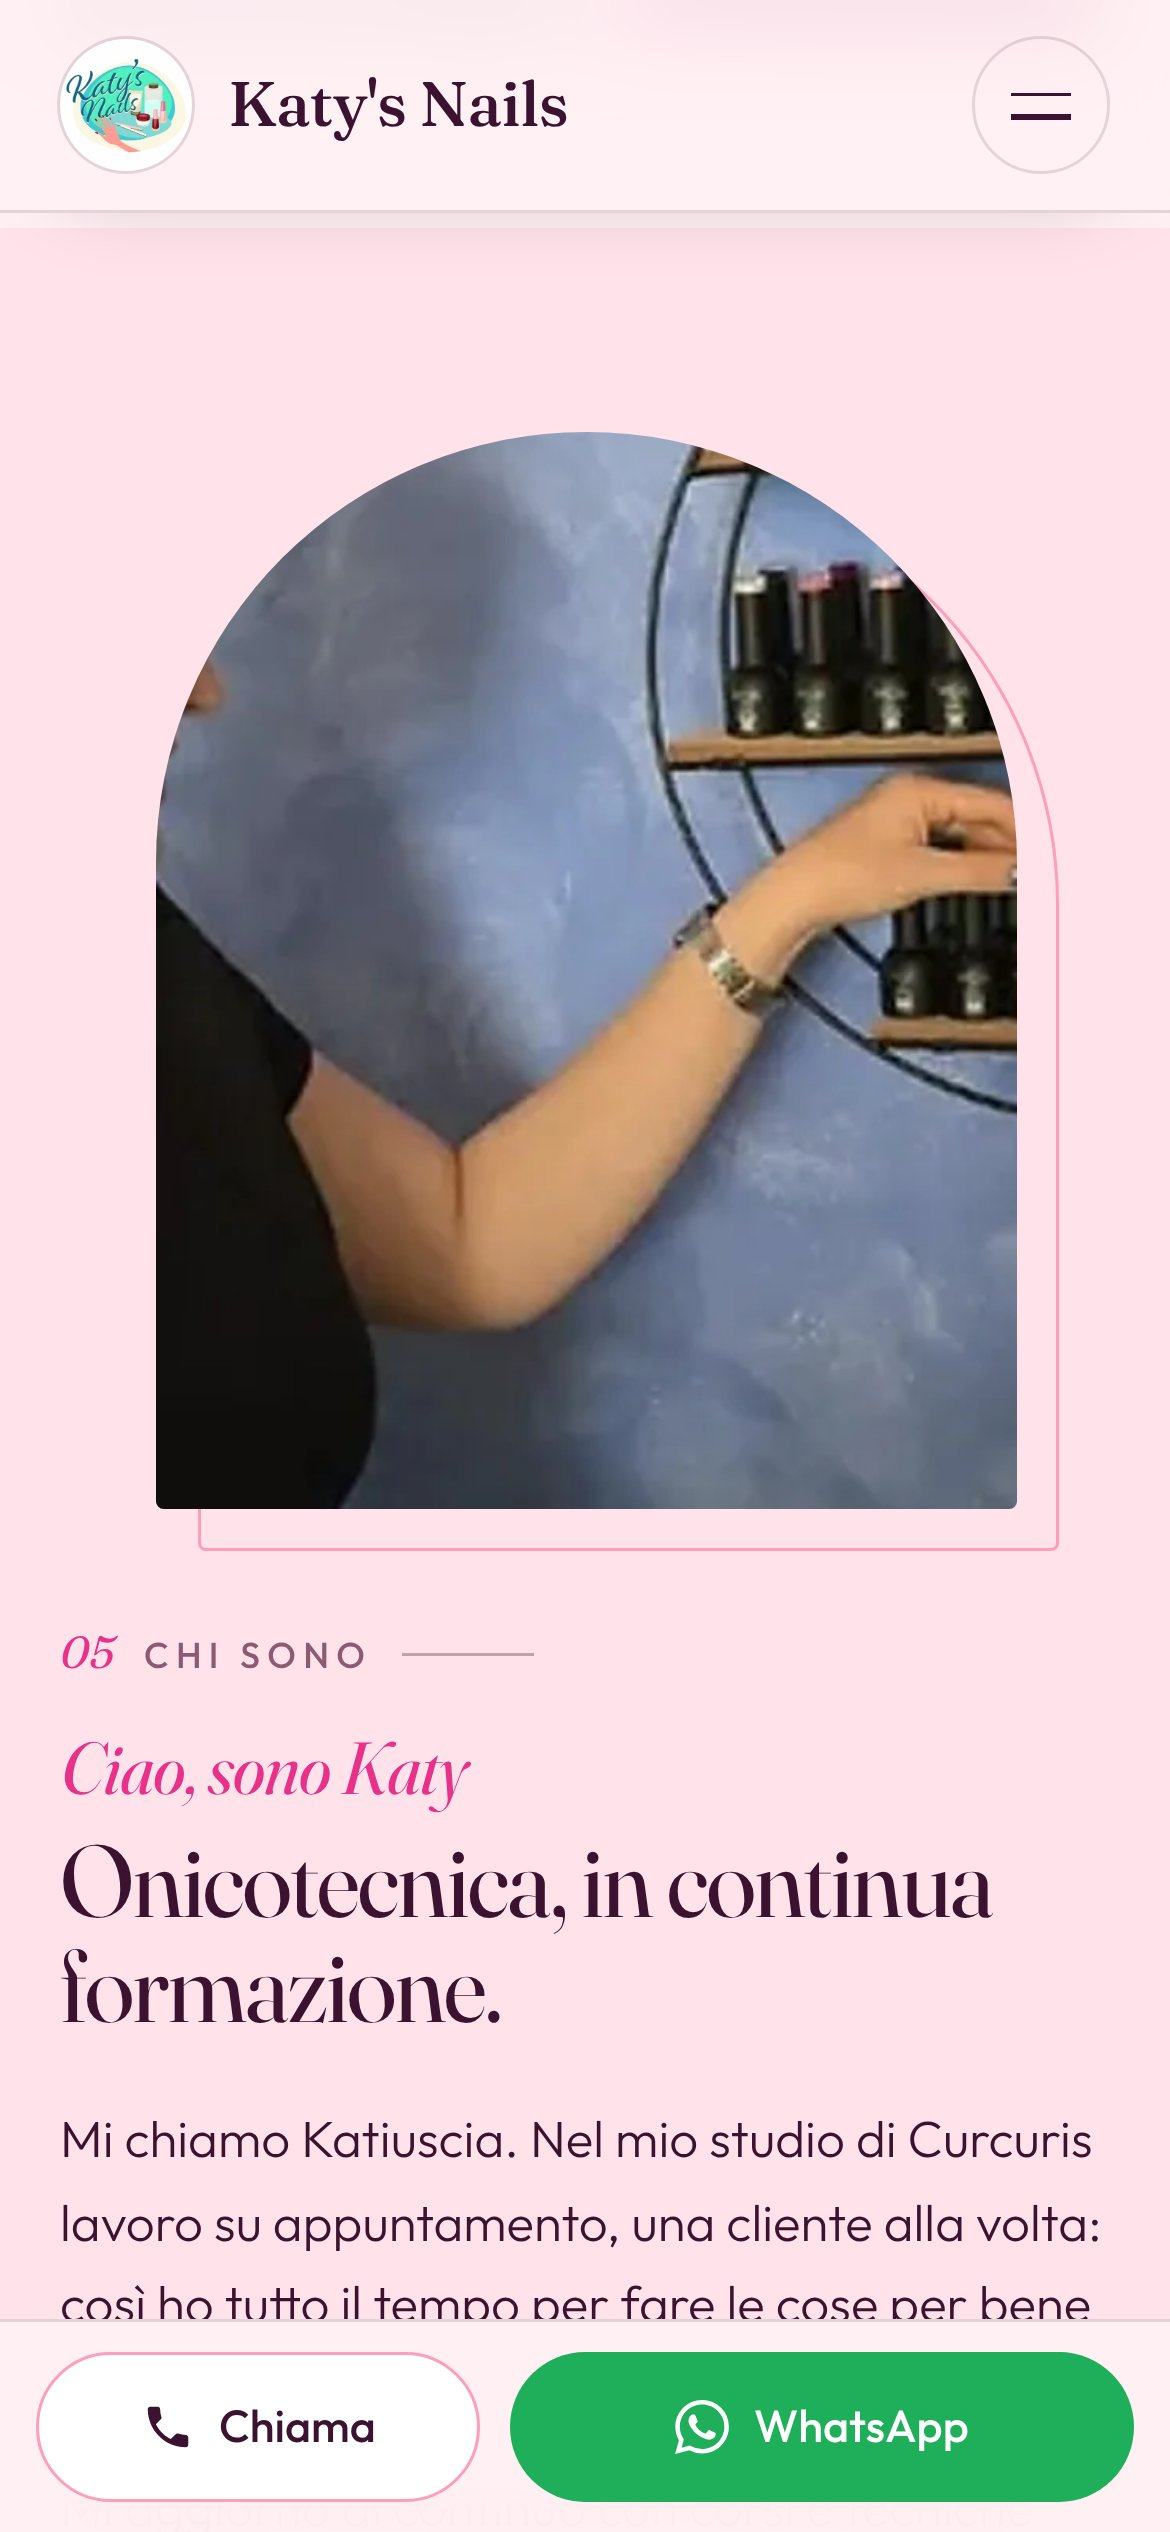
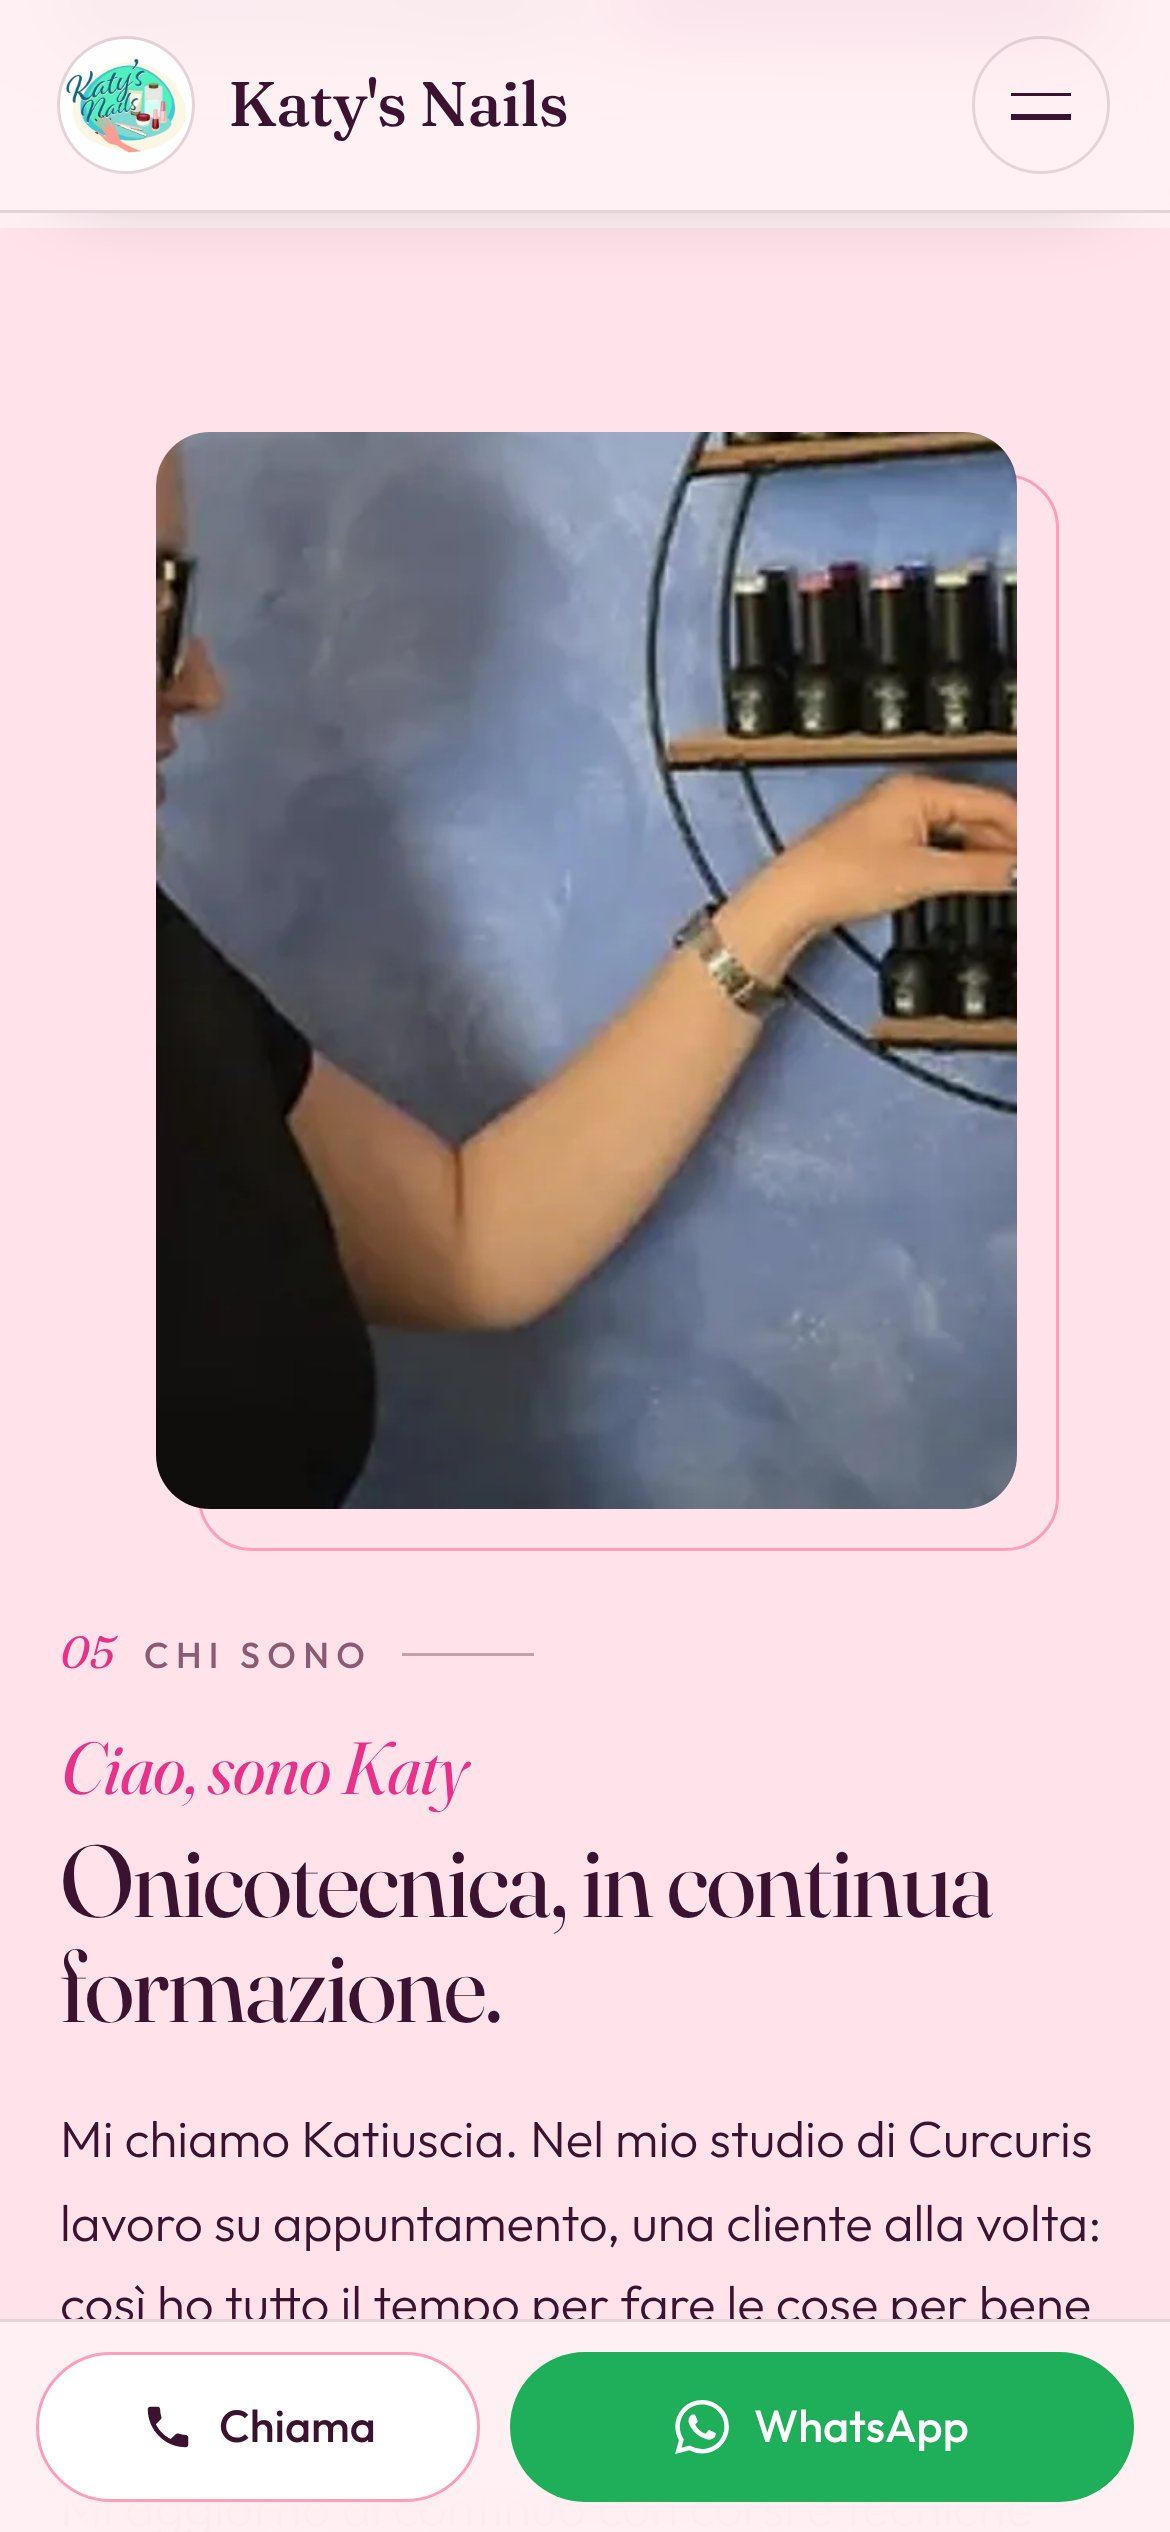
Apertura: foto non zoomate e cornice semplice
- in apertura entrano solo foto verticali o quadrate: le orizzontali
  venivano ingrandite del doppio per riempire il riquadro
- il pannello avvisa se si mette la stellina a una foto orizzontale
- cornici: rettangoli con angoli arrotondati al posto di archi e gocce,
  anche per la foto di Chi sono
- test pannello aggiornato con una foto verticale (29/29)

Claude-Session: https://claude.ai/code/session_01W7HbZyGkFPDAda3KWqu4ya

diff --git a/da-caricare/assets/css/site.css b/da-caricare/assets/css/site.css
@@ -120,15 +120,15 @@ em.script,.script{font-family:var(--serif);font-style:italic;font-weight:400;let
 .facts dt{font-family:var(--serif);font-size:clamp(20px,5.4vw,32px);font-weight:400;line-height:1;color:var(--ink);letter-spacing:-.02em}
 .facts dd{margin:6px 0 0;font-size:12.5px;letter-spacing:.06em;text-transform:uppercase;color:var(--muted);line-height:1.3}
 .hero-media{position:relative;padding:0 0 30px 0}
-.visual{position:relative;margin:0;border-radius:var(--r) var(--r) 120px 120px;overflow:hidden;aspect-ratio:4/5;background:var(--rosa);border:6px solid #fff;box-shadow:0 40px 70px -36px rgba(196,30,115,.55);isolation:isolate}
+.visual{position:relative;margin:0;border-radius:28px;overflow:hidden;aspect-ratio:4/5;background:var(--rosa);border:6px solid #fff;box-shadow:0 40px 70px -36px rgba(196,30,115,.55);isolation:isolate}
 .visual .slides{position:absolute;top:0;right:0;bottom:0;left:0}
 .visual .slides img{position:absolute;inset:0;width:100%;height:100%;object-fit:cover;opacity:0;transform:scale(1.06);transition:opacity 1.2s ease,transform 6s ease-out}
 .visual .slides img.on{opacity:1;transform:scale(1)}
 .visual .shine{position:absolute;top:0;right:0;bottom:0;left:0;pointer-events:none;background:linear-gradient(105deg,transparent 40%,rgba(255,255,255,.28) 50%,transparent 60%) no-repeat;background-size:250% 100%;background-position:150% 0;animation:lucido 8s ease-in-out 2s infinite}
 @keyframes lucido{0%{background-position:150% 0}20%,100%{background-position:-60% 0}}
-.visual figcaption{position:absolute;right:34px;bottom:26px;max-width:60%;padding:8px 14px;border-radius:999px;background:rgba(255,255,255,.92);color:var(--ink);font-size:11px;font-weight:500;letter-spacing:.14em;text-transform:uppercase;white-space:nowrap;overflow:hidden;text-overflow:ellipsis;z-index:2;transition:opacity .4s}
+.visual figcaption{position:absolute;right:20px;bottom:20px;max-width:60%;padding:8px 14px;border-radius:999px;background:rgba(255,255,255,.92);color:var(--ink);font-size:11px;font-weight:500;letter-spacing:.14em;text-transform:uppercase;white-space:nowrap;overflow:hidden;text-overflow:ellipsis;z-index:2;transition:opacity .4s}
 .visual figcaption.fade{opacity:0}
-.visual-2{position:absolute;margin:0;width:34%;left:-6px;bottom:0;border-radius:14px;overflow:hidden;border:6px solid #fff;box-shadow:0 24px 40px -22px rgba(196,30,115,.55);aspect-ratio:1/1;background:var(--rosa)}
+.visual-2{position:absolute;margin:0;width:34%;left:-6px;bottom:0;border-radius:18px;overflow:hidden;border:6px solid #fff;box-shadow:0 24px 40px -22px rgba(196,30,115,.55);aspect-ratio:1/1;background:var(--rosa)}
 .visual-2 img{width:100%;height:100%;object-fit:cover}
 .hero-mark{position:absolute;left:0;right:0;bottom:-.12em;font-family:var(--serif);font-style:italic;font-weight:300;font-size:clamp(80px,18vw,230px);line-height:1;white-space:nowrap;text-align:center;color:transparent;-webkit-text-stroke:1px rgba(232,49,138,.28);pointer-events:none;user-select:none;letter-spacing:-.02em}
 @media (min-width:980px){
@@ -138,8 +138,8 @@ em.script,.script{font-family:var(--serif);font-style:italic;font-weight:400;let
   .cta{grid-auto-flow:column;gap:28px}
   .facts{max-width:520px}
   .hero-media{padding:0 0 40px 40px;display:flex;justify-content:flex-end}
-  .visual{max-width:520px;width:100%;transform:rotate(1.5deg)}
-  .visual-2{width:40%;left:0;bottom:0}
+  .visual{max-width:500px;width:100%;transform:none}
+  .visual-2{width:38%;left:0;bottom:10px}
 }
 
 /* nastro dei servizi */
@@ -311,8 +311,8 @@ em.script,.script{font-family:var(--serif);font-style:italic;font-weight:400;let
 .about{background:var(--crema-2)}
 .about-grid{display:grid;gap:36px;align-items:center}
 .portrait{position:relative;width:min(82%,380px);justify-self:center}
-.portrait::before{content:"";position:absolute;top:14px;right:-14px;bottom:-14px;left:14px;border-radius:999px 999px var(--r) var(--r);border:1px solid var(--rosa-2)}
-.portrait img{position:relative;width:100%;aspect-ratio:4/5;object-fit:cover;border-radius:999px 999px var(--r) var(--r)}
+.portrait::before{content:"";position:absolute;top:14px;right:-14px;bottom:-14px;left:14px;border-radius:var(--r);border:1px solid var(--rosa-2)}
+.portrait img{position:relative;width:100%;aspect-ratio:4/5;object-fit:cover;border-radius:var(--r)}
 .about h2{font-size:clamp(34px,8.6vw,58px);font-weight:400;margin-bottom:20px}
 .about h2 em{display:block;font-size:.72em;margin-bottom:8px}
 .about p{margin-bottom:14px;max-width:34em}

diff --git a/anteprima/index.html b/anteprima/index.html
@@ -24,7 +24,7 @@
 <link rel="preload" href="../da-caricare/assets/fonts/fraunces-latin-normal-300-700.woff2" as="font" type="font/woff2" crossorigin>
 <link rel="preload" href="../da-caricare/assets/fonts/fraunces-latin-italic-300-700.woff2" as="font" type="font/woff2" crossorigin>
 <link rel="preload" href="../da-caricare/assets/fonts/outfit-latin-normal-300-800.woff2" as="font" type="font/woff2" crossorigin>
-<link rel="stylesheet" href="../da-caricare/assets/css/site.css?v=1795296107">
+<link rel="stylesheet" href="../da-caricare/assets/css/site.css?v=1795297049">
 <script>document.documentElement.classList.add('js')</script>
 <script type="application/ld+json">{"@context":"https://schema.org","@type":"NailSalon","name":"Katy's Nails","url":"http://anteprima.local/","image":"http://anteprima.local/assets/img/og.jpg","logo":"http://anteprima.local/assets/img/logo.jpg","telephone":"+39 349 413 6132","address":{"@type":"PostalAddress","streetAddress":"Via Grazia Deledda 2a","addressLocality":"Curcuris","addressRegion":"OR","addressCountry":"IT"},"openingHoursSpecification":[{"@type":"OpeningHoursSpecification","dayOfWeek":"Tuesday","opens":"09:00","closes":"13:00"},{"@type":"OpeningHoursSpecification","dayOfWeek":"Tuesday","opens":"15:00","closes":"19:00"},{"@type":"OpeningHoursSpecification","dayOfWeek":"Wednesday","opens":"09:00","closes":"13:00"},{"@type":"OpeningHoursSpecification","dayOfWeek":"Wednesday","opens":"15:00","closes":"19:00"},{"@type":"OpeningHoursSpecification","dayOfWeek":"Thursday","opens":"09:00","closes":"13:00"},{"@type":"OpeningHoursSpecification","dayOfWeek":"Thursday","opens":"15:00","closes":"19:00"},{"@type":"OpeningHoursSpecification","dayOfWeek":"Friday","opens":"09:00","closes":"13:00"},{"@type":"OpeningHoursSpecification","dayOfWeek":"Friday","opens":"15:00","closes":"19:00"},{"@type":"OpeningHoursSpecification","dayOfWeek":"Saturday","opens":"09:00","closes":"14:00"}],"sameAs":["https://www.instagram.com/katys.nails.studio90/"]}</script>
 </head>
@@ -59,12 +59,11 @@
         <div><dt data-count="1018">1.018</dt><dd>lavori su Instagram</dd></div><div><dt>1 alla volta</dt><dd>niente attese</dd></div><div><dt>Sempre</dt><dd>in formazione</dd></div>      </dl>
           </div>
         <div class="hero-media pop">
-      <figure class="visual" data-slides="[{&quot;src&quot;:&quot;../da-caricare/uploads/20261121-e12d07703976.webp&quot;,&quot;cap&quot;:&quot;Rosa fragola lucido&quot;},{&quot;src&quot;:&quot;../da-caricare/uploads/20261121-0f730c578a9b.webp&quot;,&quot;cap&quot;:&quot;French sottile&quot;},{&quot;src&quot;:&quot;../da-caricare/uploads/20261121-e0dcf2bb16c1.webp&quot;,&quot;cap&quot;:&quot;Rosa latte&quot;}]">
+      <figure class="visual" data-slides="[]">
         <div class="slides"><img src="../da-caricare/uploads/20261121-7a33137fe847.webp" alt="Salvia + glitter" class="on" width="800" height="1000" fetchpriority="high"></div>
         <span class="shine" aria-hidden="true"></span>
         <figcaption><span id="hero-cap">Salvia + glitter</span></figcaption>
       </figure>
-            <figure class="visual-2"><img src="../da-caricare/uploads/20261121-e12d07703976-t.webp" alt="Rosa fragola lucido" width="400" height="400" loading="lazy"></figure>
           </div>
       </div>
   <div class="hero-mark" aria-hidden="true">Katy&#039;s Nails</div>

diff --git a/da-caricare/assets/js/admin.js b/da-caricare/assets/js/admin.js
@@ -717,7 +717,11 @@
       put(grid, arr.map(function (g, i) {
         var cap = h('input', { type: 'text', value: g.didascalia || '', maxlength: 80, placeholder: 'Descrizione (facoltativa)', 'aria-label': 'Descrizione foto ' + (i + 1) });
         cap.addEventListener('input', function () { g.didascalia = cap.value; changed(); });
-        var star = h('button', { type: 'button', class: 'star' + (g.apertura ? ' on' : ''), 'aria-pressed': String(!!g.apertura), title: 'Mostra questa foto nella foto grande in apertura', onclick: function () { g.apertura = !g.apertura; changed(); paint(); } }, ico('star', 13), g.apertura ? 'In apertura' : 'In apertura');
+        var orizzontale = g.w && g.h && g.h < g.w * 0.9;
+        var star = h('button', { type: 'button', class: 'star' + (g.apertura ? ' on' : ''), 'aria-pressed': String(!!g.apertura), title: orizzontale ? 'Foto orizzontale: in apertura verrebbe ingrandita troppo, quindi non viene usata' : 'Mostra questa foto nella foto grande in apertura', onclick: function () {
+          if (orizzontale && !g.apertura) { toast('Questa foto è orizzontale: in apertura verrebbe ingrandita troppo. Per l\'apertura servono foto verticali.', true); return; }
+          g.apertura = !g.apertura; changed(); paint();
+        } }, ico('star', 13), g.apertura ? 'In apertura' : 'In apertura');
         return h('div', { class: 'gi', 'data-i': i },
           h('div', { class: 'gi-img', draggable: 'true' }, h('img', { src: url(g.thumb), alt: g.didascalia || '', loading: 'lazy' }), star, h('span', { class: 'n', text: String(i + 1) })),
           h('div', { class: 'gi-b' }, cap, h('div', { class: 'gi-a' },

diff --git a/anteprima/privacy.html b/anteprima/privacy.html
@@ -24,7 +24,7 @@
 <link rel="preload" href="../da-caricare/assets/fonts/fraunces-latin-normal-300-700.woff2" as="font" type="font/woff2" crossorigin>
 <link rel="preload" href="../da-caricare/assets/fonts/fraunces-latin-italic-300-700.woff2" as="font" type="font/woff2" crossorigin>
 <link rel="preload" href="../da-caricare/assets/fonts/outfit-latin-normal-300-800.woff2" as="font" type="font/woff2" crossorigin>
-<link rel="stylesheet" href="../da-caricare/assets/css/site.css?v=1795296107">
+<link rel="stylesheet" href="../da-caricare/assets/css/site.css?v=1795297049">
 <script>document.documentElement.classList.add('js')</script>
 </head>
 <body><div style="background:#2E1F28;color:#fff;font:500 13px/1.4 system-ui,sans-serif;text-align:center;padding:8px 12px">Anteprima del sito · il pannello di gestione funziona solo quando il sito è online su un hosting con PHP</div>

diff --git a/tools/test-pannello.js b/tools/test-pannello.js
@@ -82,6 +82,10 @@ const iso = d => d.toISOString().slice(0, 10);
   check((await site()).match(/class="shot/g).length === prima + 1, 'la foto compare sul sito');
   const nSlides = h => ((h.match(/data-slides="([^"]*)"/) || [, ''])[1].match(/&quot;src&quot;/g) || []).length;
   const slidesPrima = nSlides(await site());
+  // in apertura vanno solo foto verticali: ne carico una e metto la stellina a quella
+  await page.setInputFiles('.uploader input[type=file]', [process.env.FOTO_V || process.env.FOTO]);
+  await toast('aggiunta');
+  await page.waitForTimeout(400);
   await page.click('.gi >> nth=0 >> .star');
   check(await page.getAttribute('.gi >> nth=0 >> .star', 'aria-pressed') === 'true', 'la stellina "in apertura" si accende');
   await page.click('#salva');

diff --git a/da-caricare/index.php b/da-caricare/index.php
@@ -16,14 +16,14 @@ $servizi = array_values(array_filter($c['servizi']['elenco'] ?? [], fn($x) => tr
 $galleria = $c['galleria']['foto'] ?? [];
 $heroFoto = $hero['foto'] ?: ($galleria[0]['file'] ?? '');
 $slides = [['src' => $heroFoto, 'cap' => $hero['foto_etichetta']]];
-foreach ($galleria as $g) { // le foto con la stellina "in apertura", scelte da Katy nel pannello
-    if (!empty($g['apertura']) && $g['file'] !== $heroFoto && count($slides) < 6) {
+foreach ($galleria as $g) { // le foto con la stellina "in apertura", scelte da Katy nel pannello (solo verticali o quadrate: le orizzontali verrebbero ingrandite troppo)
+    if (!empty($g['apertura']) && $g['file'] !== $heroFoto && count($slides) < 6 && $g['h'] >= $g['w'] * 0.9) {
         $slides[] = ['src' => $g['file'], 'cap' => $g['didascalia']];
     }
 }
 $secondaFoto = null; // la piccola foto sovrapposta in apertura: un'altra foto con la stellina
 foreach ($galleria as $g) {
-    if (!empty($g['apertura']) && $g['file'] !== $heroFoto) {
+    if (!empty($g['apertura']) && $g['file'] !== $heroFoto && $g['h'] >= $g['w'] * 0.9 && !in_array($g['file'], array_column($slides, 'src'), true)) {
         $secondaFoto = $g;
         break;
     }
